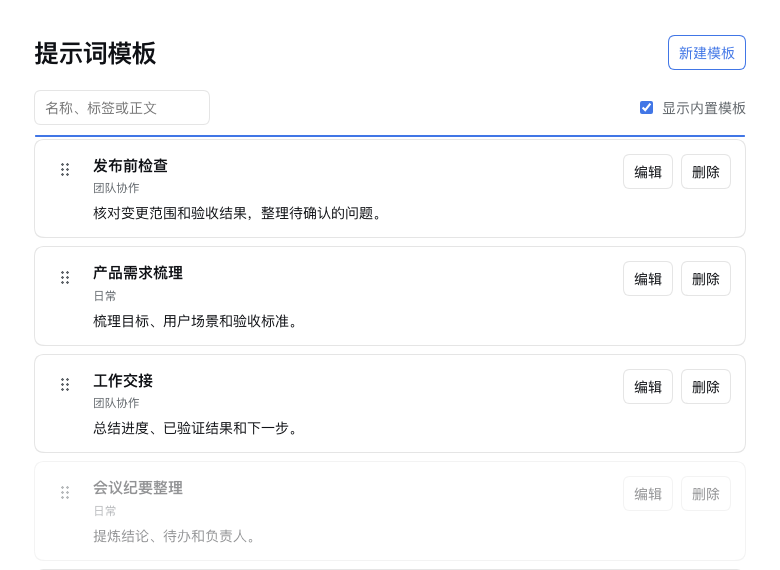
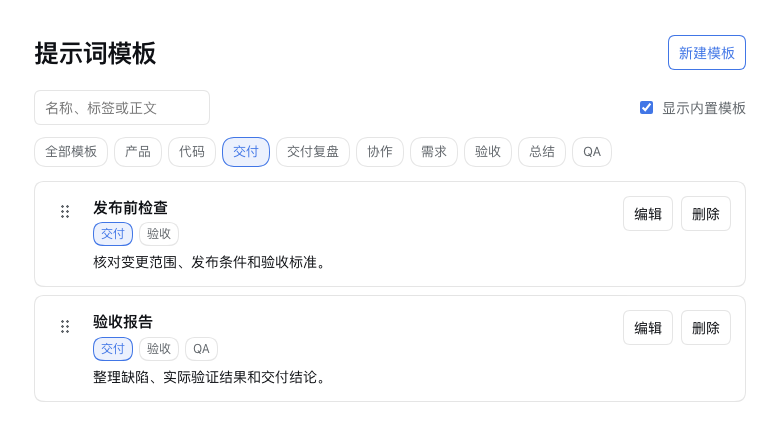
Filter prompt templates by tag

diff --git a/page/style.css b/page/style.css
@@ -30,6 +30,25 @@
 .pt-library :is(button, input, textarea):focus-visible { outline: 2px solid var(--cx-page-accent); outline-offset: 2px; }
 .pt-library button.pt-primary { border-color: var(--cx-page-accent); color: var(--cx-page-accent); }
 .pt-library button.pt-danger { color: var(--cx-page-danger); }
+.pt-tag-filters, .pt-template-tags { display: flex; flex-wrap: wrap; align-items: center; gap: 6px; }
+.pt-tag-filters { margin-top: 12px; }
+.pt-template-tags { margin-top: 4px; }
+.pt-library button.pt-tag {
+  max-width: 100%;
+  min-height: 30px;
+  padding: 3px 10px;
+  overflow: hidden;
+  border-radius: 999px;
+  color: var(--cx-page-text-muted);
+  font-size: 13px;
+  text-overflow: ellipsis;
+}
+.pt-template-tags button.pt-tag { min-height: 24px; padding: 1px 7px; font-size: 12px; }
+.pt-library button.pt-tag[aria-pressed="true"] {
+  border-color: var(--cx-page-accent);
+  background: color-mix(in srgb, var(--cx-page-accent) 10%, var(--cx-page-bg));
+  color: var(--cx-page-accent);
+}
 .pt-library form, .pt-list > li {
   border: 1px solid var(--cx-page-border);
   border-radius: var(--cx-page-radius, 10px);
@@ -79,7 +98,6 @@
 .pt-list > [data-drop-position="after"]::before { bottom: -5px; }
 .pt-list h2 { margin: 0; font-size: 15px; overflow-wrap: anywhere; }
 .pt-list small, .pt-empty { color: var(--cx-page-text-muted); overflow-wrap: anywhere; }
-.pt-list small:empty { display: none; }
 .pt-list p {
   display: -webkit-box;
   margin: 5px 0 0;

diff --git a/README.md b/README.md
@@ -6,9 +6,9 @@
 
 ## 安装
 
-需要支持 `manifestVersion: 2`、`page`、`widget` 和 `backend` 的 CodexHost。模板管理、拖拽排序和草稿插入已在 CodexHost `0.26.1` 的 Desktop 和 CH Web 环境验证。
+需要支持 `manifestVersion: 2`、`page`、`widget` 和 `backend` 的 CodexHost。标签筛选已在 CodexHost `0.27.0` 的 Desktop 和 CH Web 环境验证。
 
-从 [GitHub Release](https://github.com/zxd-666/codexhost-prompt-templates/releases/latest) 下载 `prompt-templates-1.1.1.zip`。
+从 [GitHub Release](https://github.com/zxd-666/codexhost-prompt-templates/releases/latest) 下载插件 ZIP。
 
 | 客户端 | 导入并启用 | 打开独立页面 |
 | --- | --- | --- |
@@ -22,10 +22,11 @@
 ## 使用
 
 - **搜索和插入**。结果只显示模板名称，支持按名称、标签或正文搜索。点选模板或按 `Enter` 插入草稿，按 `Esc` 关闭。已有文字会保留，发送使用宿主原有操作。
+- **标签筛选**。在管理页点击筛选栏或模板卡片上的标签，可查看该标签下的模板。搜索可以进一步缩小结果，点击「全部模板」清除标签筛选。编辑模板时，可用逗号分隔多个标签。
 - **管理和排序**。新增、编辑和删除自定义模板，也可隐藏内置模板。拖动模板左侧的六点手柄后松手即可保存顺序，聚焦手柄时也可用上下方向键移动。管理页和输入框弹窗使用同一顺序。
 - **双端共享**。连接同一个 CodexHost Host 的 Desktop 和 Web 共享模板。模板保存在该 Host 的插件数据中，共享后端通过 Host 的存储接口读写模板和排序。
 
-![模板管理页拖拽排序](assets/library.png)
+![模板管理页按标签筛选](assets/library.png)
 
 ## 打包
 
